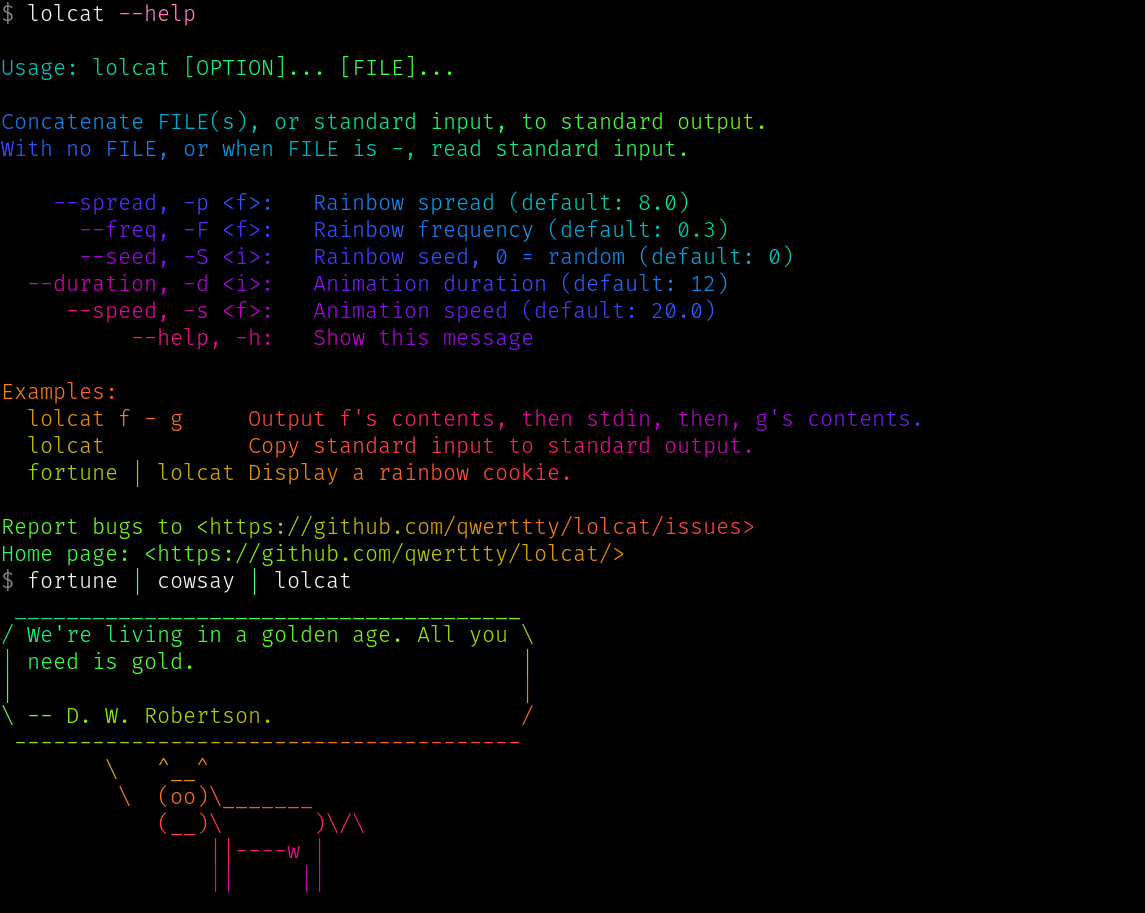
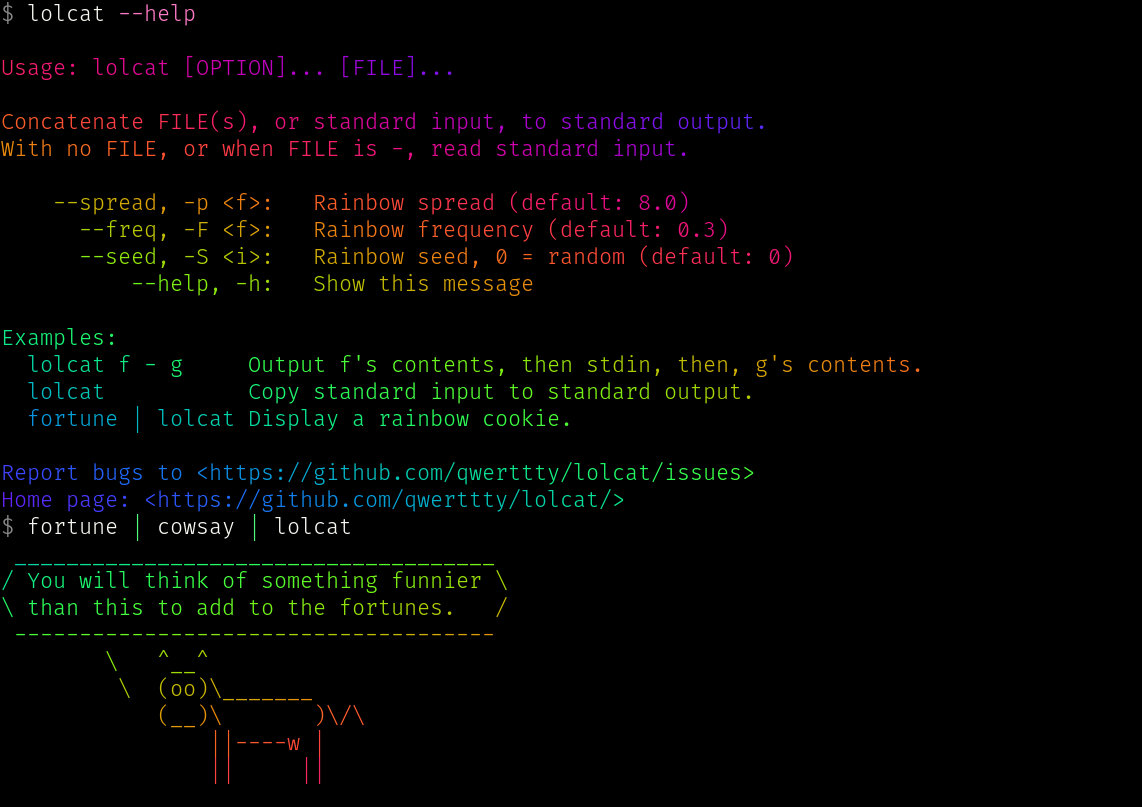
Fixed bug with printing lines from files, improved README.md and help arg

diff --git a/lolcat.ts b/lolcat.ts
@@ -1,5 +1,6 @@
 import * as print from "./print.ts";
 import { parse } from "https://deno.land/std@0.51.0/flags/mod.ts";
+import { encode } from "https://deno.land/std@0.51.0/encoding/utf8.ts";
 
 var args = parse(Deno.args, {
   alias: {
@@ -26,8 +27,6 @@ With no FILE, or when FILE is -, read standard input.
     --spread, -p <f>:   Rainbow spread (default: 8.0)
       --freq, -F <f>:   Rainbow frequency (default: 0.3)
       --seed, -S <i>:   Rainbow seed, 0 = random (default: 0)
-  --duration, -d <i>:   Animation duration (default: 12)
-     --speed, -s <f>:   Animation speed (default: 20.0)
           --help, -h:   Show this message
 
 Examples:
@@ -46,6 +45,10 @@ Home page: <https://github.com/qwerttty/lolcat/>`;
     i -= 1;
     print.options.seed = o + i;
     print.println(lines[line]);
+
+    Deno.stdout.writeSync(
+      encode("\n"),
+    );
   }
 
   Deno.exit();

diff --git a/print.ts b/print.ts
@@ -47,16 +47,16 @@ const println = function (line: string) {
   for (let i = 0; i < line.length; i++) {
     colorize(line[i], rainbow(options.freq, options.seed + i / options.spread));
   }
-
-  Deno.stdout.writeSync(
-    encode("\n"),
-  );
 };
 
 const fromPipe = async function () {
   for await (const line of readLines(Deno.stdin)) {
     options.seed += 1;
     println(line);
+
+    Deno.stdout.writeSync(
+      encode("\n"),
+    );
   }
 };
 

diff --git a/README.md b/README.md
@@ -8,15 +8,8 @@ deno install https://deno.land/x/lolcat/lolcat.ts
 
 ## Examples
 
-**Output of other command:**
-
 ```
 fortune | lolcat
-```
-
-**Text in a file:**
-
-```
 deno run --allow-read https://deno.land/x/lolcat/lolcat.ts printme.txt
 ```
 
